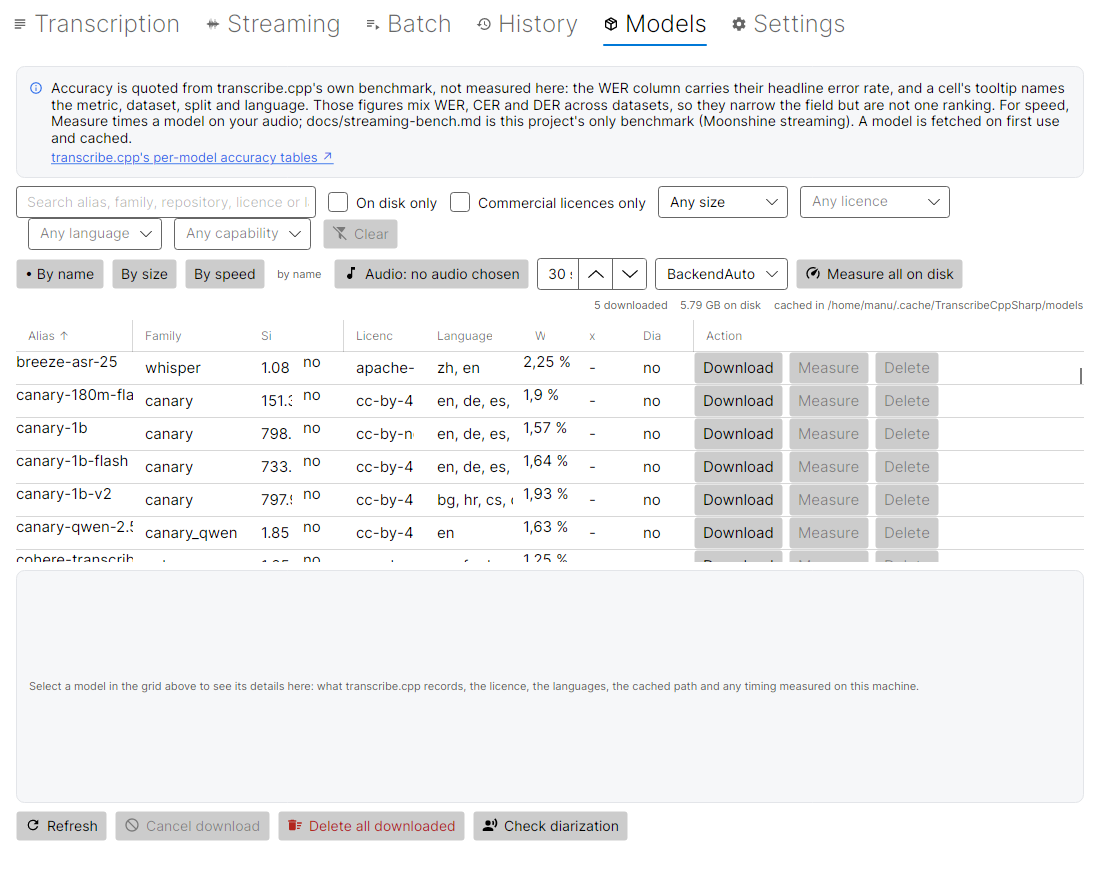
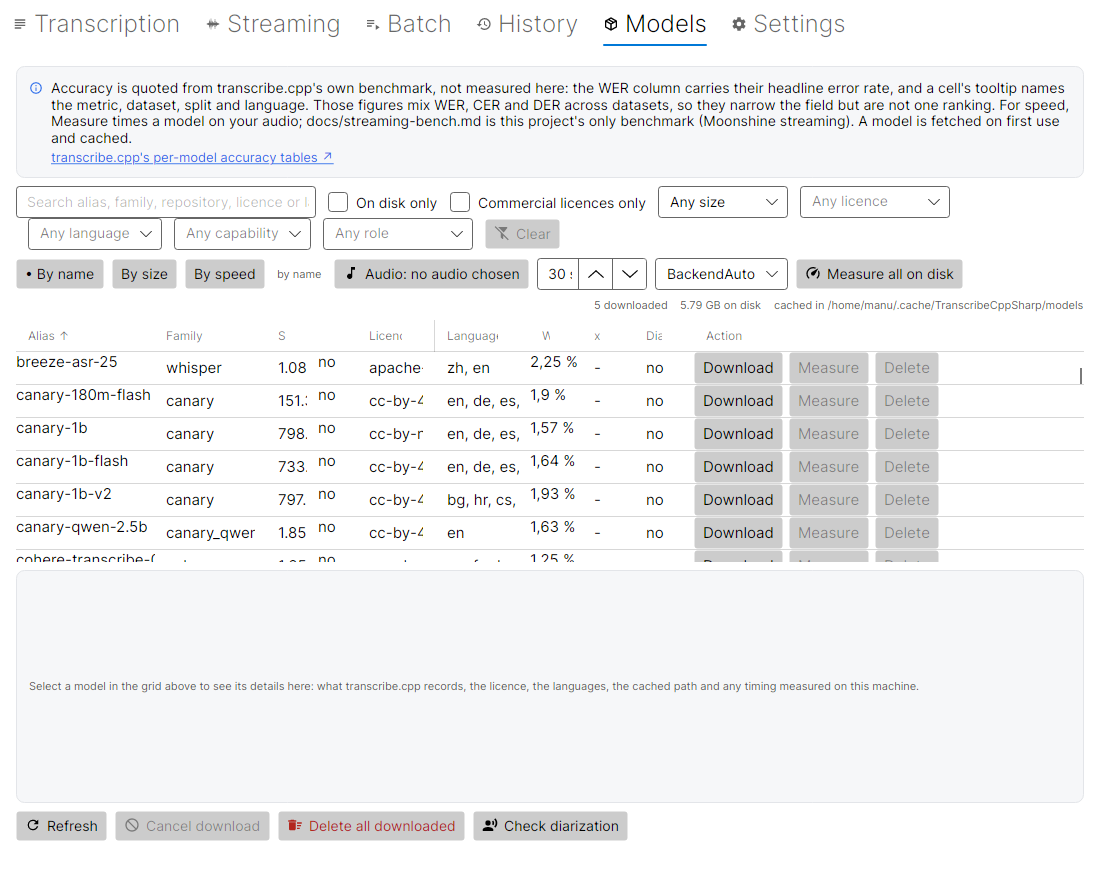
feat(ui): show and filter the role a model serves
The catalog's role field was not read, so the dedicated diarizer, the language
identifier and the VAD model looked like the 73 ASR entries. It is now read:
the three non-ASR models carry a tag under the alias, a Role filter narrows the
grid to speech to text, diarization, language identification or speech
detection, and the detail pane names the role and says whether it is the
catalog's statement or the loaded model's.

This makes the existing LANGID and VAD support discoverable without adding a
model or an algorithm. The filter uses the catalog, so it works before a
download; a model with no record is hidden while a role is set.

Tests: role mapping for all 76 entries, filter reach and Clear, role tag;
341 UI tests pass.

diff --git a/src/TranscribeCppSharp.UI/ViewModels/ModelManagerViewModel.cs b/src/TranscribeCppSharp.UI/ViewModels/ModelManagerViewModel.cs
@@ -174,6 +174,19 @@ public partial class ModelManagerViewModel : ObservableObject
     [NotifyPropertyChangedFor(nameof(ActiveFilterSummary))]
     private string? _featureFilter;
 
+    /// <summary>
+    /// Role to show, or null for every role.
+    /// </summary>
+    /// <remarks>
+    /// A record rather than a string so the picker can show "Language ID" while the
+    /// comparison uses upstream's key ("langid"). The key is what
+    /// <see cref="ModelCatalogItem.RoleKey"/> carries.
+    /// </remarks>
+    [ObservableProperty]
+    [NotifyPropertyChangedFor(nameof(HasAnyQuickFilter))]
+    [NotifyPropertyChangedFor(nameof(ActiveFilterSummary))]
+    private ModelRoleOption? _roleFilter;
+
     /// <summary>Language to show, or null for every language.</summary>
     /// <remarks>
     /// Codes, not names: the manifest stores what the model card states, which is
@@ -305,6 +318,22 @@ public partial class ModelManagerViewModel : ObservableObject
     /// </remarks>
     public IReadOnlyList<string> Features { get; } = UpstreamCatalog.FeatureKeys;
 
+    /// <summary>
+    /// Roles upstream records, for the role filter.
+    /// </summary>
+    /// <remarks>
+    /// Four values, and ASR is the one their catalog leaves implicit. The keys are
+    /// theirs; the labels are only what the picker shows. A model with no catalog
+    /// record is hidden while a role is selected, because unknown is not a role.
+    /// </remarks>
+    public IReadOnlyList<ModelRoleOption> Roles { get; } = new[]
+    {
+        new ModelRoleOption("asr", "Speech to text"),
+        new ModelRoleOption("diarize", "Diarization"),
+        new ModelRoleOption("langid", "Language ID"),
+        new ModelRoleOption("vad", "Speech detection"),
+    };
+
     /// <summary>Licences present in the manifest, for the licence filter.</summary>
     public IReadOnlyList<string> Licenses { get; } =
         ModelStore.Catalog
@@ -341,7 +370,8 @@ public partial class ModelManagerViewModel : ObservableObject
         || SizeFilter != ModelSizeFilter.Any
         || !string.IsNullOrEmpty(LicenseFilter)
         || !string.IsNullOrEmpty(LanguageFilter)
-        || !string.IsNullOrEmpty(FeatureFilter);
+        || !string.IsNullOrEmpty(FeatureFilter)
+        || RoleFilter is not null;
 
     /// <summary>
     /// The quick filters in force, as one line, or empty when none are.
@@ -383,6 +413,11 @@ public partial class ModelManagerViewModel : ObservableObject
             if (!string.IsNullOrEmpty(FeatureFilter))
             {
                 parts.Add($"capability {FeatureFilter}");
+            }
+
+            if (RoleFilter is { } role)
+            {
+                parts.Add($"role {role.Label.ToLowerInvariant()}");
             }
 
             if (!string.IsNullOrWhiteSpace(Filter))
@@ -473,6 +508,8 @@ public partial class ModelManagerViewModel : ObservableObject
     partial void OnLanguageFilterChanged(string? value) => ApplyFilter();
 
     partial void OnFeatureFilterChanged(string? value) => ApplyFilter();
+
+    partial void OnRoleFilterChanged(ModelRoleOption? value) => ApplyFilter();
 
     partial void OnBusyAliasChanged(string? value)
     {
@@ -800,6 +837,15 @@ public partial class ModelManagerViewModel : ObservableObject
                 continue;
             }
 
+            // Role comes from upstream's catalog, which records it for the
+            // non-ASR entries and leaves it implicit for ASR. A row with no record
+            // is hidden while a role is set: unknown is not the role asked for.
+            if (RoleFilter is { } role
+                && !string.Equals(item.RoleKey, role.Key, StringComparison.Ordinal))
+            {
+                continue;
+            }
+
             if (!string.IsNullOrEmpty(needle)
                 && !item.Alias.Contains(needle, StringComparison.OrdinalIgnoreCase)
                 && !item.Repo.Contains(needle, StringComparison.OrdinalIgnoreCase)
@@ -839,6 +885,7 @@ public partial class ModelManagerViewModel : ObservableObject
         LicenseFilter = null;
         LanguageFilter = null;
         FeatureFilter = null;
+        RoleFilter = null;
         ApplyFilter();
     }
 

diff --git a/src/TranscribeCppSharp.UI/Models/ModelCatalogItem.cs b/src/TranscribeCppSharp.UI/Models/ModelCatalogItem.cs
@@ -163,6 +163,74 @@ public class ModelCatalogItem : System.ComponentModel.INotifyPropertyChanged
     }
 
     /// <summary>
+    /// Upstream's role key for this model, or null when it records no role.
+    /// </summary>
+    /// <remarks>
+    /// Their catalog spells ASR by leaving <c>role</c> out, so an absent field on a
+    /// known record is read as <c>asr</c>, not as unknown. A model with no record at
+    /// all keeps null: that one is genuinely unknown and the role filter hides it.
+    /// </remarks>
+    public string? RoleKey
+    {
+        get
+        {
+            UpstreamCatalog.Record? record = Upstream;
+            if (record is null)
+            {
+                return null;
+            }
+
+            return string.IsNullOrEmpty(record.Role) ? "asr" : record.Role;
+        }
+    }
+
+    /// <summary>
+    /// Whether the role is worth a tag on the row.
+    /// </summary>
+    /// <remarks>
+    /// ASR is the ordinary case: 73 of the 76 rows would carry the same word.
+    /// The tag marks the exceptions a reader is looking for — a diarizer, a
+    /// language identifier, a VAD model — and leaves the rest of the grid as it
+    /// was. The role filter still includes ASR, and the detail pane always names
+    /// the role.
+    /// </remarks>
+    public bool IsNonAsrRole => RoleKey is not ("asr" or null);
+
+    /// <summary>The role in the words the grid and the filter show.</summary>
+    public string RoleText => RoleKey switch
+    {
+        "asr" => "ASR",
+        "diarize" => "Diarization",
+        "langid" => "Language ID",
+        "vad" => "Speech detection",
+        null => "unknown",
+        _ => RoleKey,
+    };
+
+    /// <summary>
+    /// What the role means, and whose statement it is.
+    /// </summary>
+    /// <remarks>
+    /// The loaded model is the authority — it reports its own role through
+    /// <c>Model.Roles</c>. This line is upstream's catalog, which is what the Models
+    /// tab can show before a download; saying so is what keeps the two apart.
+    /// </remarks>
+    public string RoleDetail => RoleKey switch
+    {
+        "asr" => "Role: speech recognition (ASR) — per transcribe.cpp's catalog, "
+            + "which leaves the role implicit for ASR models. The loaded model reports its own role.",
+        "diarize" => "Role: speaker diarization — per transcribe.cpp's catalog. "
+            + "The loaded model reports its own role.",
+        "langid" => "Role: language identification — per transcribe.cpp's catalog. "
+            + "The loaded model reports its own role.",
+        "vad" => "Role: speech detection — per transcribe.cpp's catalog. "
+            + "The loaded model reports its own role.",
+        null => "Role: unknown — no catalog record for this model.",
+        _ => $"Role: {RoleKey} — per transcribe.cpp's catalog. "
+            + "The loaded model reports its own role.",
+    };
+
+    /// <summary>
     /// Every quantization upstream publishes, and what each weighs.
     /// </summary>
     /// <remarks>

diff --git a/tests/TranscribeCppSharp.UI.Tests/QuickFilterTests.cs b/tests/TranscribeCppSharp.UI.Tests/QuickFilterTests.cs
@@ -225,6 +225,62 @@ public class QuickFilterTests
         Assert.Equal(ModelStore.Catalog.Count, viewModel.VisibleModels.Count);
     }
 
+    /// <summary>
+    /// The role filter reaches the rows, and a role is not a capability: an ASR
+    /// model with native diarization is still an ASR model.
+    /// </summary>
+    [AvaloniaFact]
+    public void PickingARoleNarrowsTheGridToThatRole()
+    {
+        var (window, viewModel, _) = Show();
+        ComboBox role = Find(window, "models-role-filter");
+
+        Assert.NotEmpty(role.Items);
+        Assert.Null(role.SelectedItem);
+
+        ModelRoleOption langid = viewModel.Roles.Single(o => o.Key == "langid");
+        role.SelectedItem = langid;
+        Settle(window);
+
+        Assert.Same(langid, viewModel.RoleFilter);
+        Assert.NotEmpty(viewModel.VisibleModels);
+        Assert.All(viewModel.VisibleModels, m => Assert.Equal("langid", m.RoleKey));
+        Assert.Contains(viewModel.VisibleModels, m => m.Alias == "lang-id-voxlingua107-ecapa");
+
+        // The negative: a plain ASR model is gone, and so is a model that only
+        // *can* diarize (MOSS is still an ASR model, not the DIARIZE role).
+        Assert.DoesNotContain(viewModel.VisibleModels, m => m.Alias == "whisper-tiny");
+        Assert.DoesNotContain(viewModel.VisibleModels, m => m.Alias == "moss-transcribe-diarize");
+
+        // The picker shows the label, not the record's ToString().
+        IEnumerable<string?> shown = role.GetVisualDescendants()
+            .OfType<TextBlock>()
+            .Select(t => t.Text);
+        Assert.Contains(shown, text => text == "Language ID");
+        Assert.DoesNotContain(shown, text => text is not null && text.Contains("ModelRoleOption", StringComparison.Ordinal));
+    }
+
+    [AvaloniaFact]
+    public void TheRoleFilterCountsAsSomethingToClear()
+    {
+        var (window, viewModel, _) = Show();
+        ComboBox role = Find(window, "models-role-filter");
+
+        role.SelectedItem = viewModel.Roles.Single(o => o.Key == "vad");
+        Settle(window);
+
+        Assert.True(viewModel.HasAnyQuickFilter,
+            "Clear is bound to this, so a role must count as something to clear");
+        Assert.Contains("role speech detection", viewModel.ActiveFilterSummary.ToLowerInvariant(),
+            StringComparison.Ordinal);
+
+        viewModel.ClearFiltersCommand.Execute(null);
+
+        Assert.Null(viewModel.RoleFilter);
+        Assert.False(viewModel.HasAnyQuickFilter);
+        Assert.Equal(ModelStore.Catalog.Count, viewModel.VisibleModels.Count);
+    }
+
     /// <summary>Locate a control by the automation id the tests pin.</summary>
     private static ComboBox Find(Window window, string id)
     {

diff --git a/tests/TranscribeCppSharp.UI.Tests/UpstreamCatalogDetailTests.cs b/tests/TranscribeCppSharp.UI.Tests/UpstreamCatalogDetailTests.cs
@@ -44,6 +44,39 @@ public class UpstreamCatalogDetailTests
     }
 
     [Fact]
+    public void TheCatalogRoleIsReadAndNamed()
+    {
+        // ASR is the role upstream leaves implicit; the other three are explicit
+        // keys. The words are the ones the grid and the filter show.
+        Assert.Equal("ASR", Item("whisper-tiny").RoleText);
+        Assert.Equal("Diarization", Item("diar_streaming_sortformer_4spk-v2.1").RoleText);
+        Assert.Equal("Language ID", Item("lang-id-voxlingua107-ecapa").RoleText);
+        Assert.Equal("Speech detection", Item("silero-vad-v6.2").RoleText);
+
+        // The line says whose statement it is, so the catalog cannot be mistaken
+        // for what the loaded model reports.
+        Assert.Contains("catalog", Item("lang-id-voxlingua107-ecapa").RoleDetail, StringComparison.OrdinalIgnoreCase);
+        Assert.Contains("loaded model", Item("lang-id-voxlingua107-ecapa").RoleDetail, StringComparison.OrdinalIgnoreCase);
+    }
+
+    [Fact]
+    public void EveryModelHasARoleAndTheCatalogCountsMatch()
+    {
+        // 73 ASR (role absent), one dedicated diarizer, one language identifier,
+        // one VAD model. The three ASR models with diarization are still ASR: the
+        // role is what the model serves, the capability is what it can do.
+        var counts = ModelStore.Catalog
+            .GroupBy(d => new ModelCatalogItem(d).RoleKey ?? "unknown")
+            .ToDictionary(g => g.Key, g => g.Count());
+
+        Assert.Equal(73, counts["asr"]);
+        Assert.Equal(1, counts["diarize"]);
+        Assert.Equal(1, counts["langid"]);
+        Assert.Equal(1, counts["vad"]);
+        Assert.DoesNotContain("unknown", counts.Keys);
+    }
+
+    [Fact]
     public void TheDetailPaneCarriesUpstreamIdentity()
     {
         ModelCatalogItem item = Item("whisper-tiny");

diff --git a/src/Shared/UpstreamCatalog.cs b/src/Shared/UpstreamCatalog.cs
@@ -121,6 +121,11 @@ internal static class UpstreamCatalog
     /// carry accuracy and speed tables, and only what the front ends display is
     /// read here — nothing is fetched to be thrown away.
     /// </summary>
+    /// <remarks>
+    /// <c>Role</c> is upstream's role key ("diarize", "langid", "vad"). It is
+    /// absent for the 73 speech-to-text entries, which is how their catalog spells
+    /// ASR rather than a missing answer.
+    /// </remarks>
     public sealed record Record(
         string? Family,
         long Params,
@@ -130,7 +135,8 @@ internal static class UpstreamCatalog
         Dictionary<string, Capability>? Capabilities,
         List<Download>? Downloads,
         List<Accuracy>? AccuracyBenchmarks,
-        Headline? HeadlineBenchmark)
+        Headline? HeadlineBenchmark,
+        string? Role = null)
     {
         public bool HasIdentity =>
             Family is not null || Params > 0 || UpstreamRepo is not null;

diff --git a/src/TranscribeCppSharp.UI/Models/ModelRoleOption.cs b/src/TranscribeCppSharp.UI/Models/ModelRoleOption.cs
@@ -1,0 +1,13 @@
+namespace TranscribeCppSharp.UI.Models;
+
+/// <summary>
+/// One choice of the role filter: upstream's role key and the words for it.
+/// </summary>
+/// <remarks>
+/// The key is theirs ("asr", "diarize", "langid", "vad"), so the filter and
+/// <see cref="ModelCatalogItem.RoleKey"/> are compared without a translation
+/// table that could drift. The label is only what the picker shows.
+/// </remarks>
+/// <param name="Key">Upstream's role key.</param>
+/// <param name="Label">Text shown in the picker.</param>
+public sealed record ModelRoleOption(string Key, string Label);

diff --git a/tests/TranscribeCppSharp.UI.Tests/AutomationIdTests.cs b/tests/TranscribeCppSharp.UI.Tests/AutomationIdTests.cs
@@ -166,6 +166,7 @@ public class AutomationIdTests
         "models-license-filter",
         "models-language-filter",
         "models-feature-filter",
+        "models-role-filter",
         "models-clear-filters",
         "models-sort-name",
         "models-sort-size",
@@ -177,6 +178,7 @@ public class AutomationIdTests
         "models-grid",
         "models-detail",
         "models-detail-hint",
+        "models-role-detail",
         "models-headline-accuracy",
         "models-refresh",
         "models-cancel-download",

diff --git a/tests/TranscribeCppSharp.UI.Tests/ModelGridSortingTests.cs b/tests/TranscribeCppSharp.UI.Tests/ModelGridSortingTests.cs
@@ -26,7 +26,7 @@ namespace TranscribeCppSharp.UI.Tests;
 /// </remarks>
 public class ModelGridSortingTests
 {
-    /// <summary>The columns with an order behind them, and the two without.</summary>
+    /// <summary>The columns with an order behind them, and the ones without.</summary>
     private static readonly string[] SortableColumns =
         ["Alias", "Family", "Size", "On disk", "Licence", "Languages", "x realtime", "Diarization"];
 

diff --git a/CHANGELOG.md b/CHANGELOG.md
@@ -9,6 +9,26 @@ the wrapper (`TranscribeCppSharp`) follows SemVer for its own C# API, while
 
 ## Unreleased
 
+### UI: the Models tab says which role a model serves
+
+The catalogue already carries upstream's `role` field, but the GUI never read it:
+the 73 ASR entries, the dedicated diarizer, the language identifier and the VAD
+model looked alike, and nothing said which was which. The role is now read and
+shown under the alias for the three non-ASR models — ASR is the ordinary case and
+stays unlabelled — and a **Role** filter narrows the grid to speech to text,
+diarization, language identification or speech detection. The detail pane names
+the role and says it comes from transcribe.cpp's catalog, while the loaded model
+reports its own role.
+
+This makes the existing LANGID and VAD support discoverable without adding a
+model or an algorithm: `lang-id-voxlingua107-ecapa` and `silero-vad-v6.2` were
+already in the manifest and runnable, but the UI gave no way to know it. The role
+filter uses the catalog, so it works before a download; a model with no record is
+hidden while a role is set, because unknown is not the role asked for.
+
+Tests: the role mapping for all 76 entries, the filter's reach and its Clear
+behaviour, and the role column; the full UI suite is 341 passed.
+
 ### UI: the Window setting now actually splits the audio
 
 `TranscriptionService.RunAsr` passed `WindowSeconds` to `WindowPlanner.TryPlan`,

diff --git a/docs/ui.md b/docs/ui.md
@@ -484,6 +484,14 @@ come to 58 GiB, which is why the grid starts empty of weights and shows what is 
   two: `diar_streaming_sortformer_4spk-v2.1` and `multitalker-parakeet-streaming-0.6b-v1` —
   filter by `streaming` and read the Diarization column, which now answers for ten models
   rather than waiting for a download.
+- **Filter by role.** The picker beside the capability filter narrows the grid to the role
+  transcribe.cpp records: speech to text (the role their catalog leaves implicit), diarization,
+  language identification or speech detection. The role also appears under the alias for the
+  three non-ASR models, so a diarizer, the language identifier or the VAD model is visible
+  without opening the detail pane; ASR is the ordinary case and stays unlabelled. A model with
+  no record is hidden while a role is set, because unknown is not the role asked for. The
+  detail pane names the role and whose statement it is: the catalog is what the tab can show
+  before a download, and the loaded model reports its own role.
 - **The detail pane quotes upstream.** Below the grid, the selected model shows what
   [`transcribe.cpp`](https://github.com/handy-computer/transcribe.cpp) itself records:
   the parameter count and the checkpoint it was converted from, every quantization they
